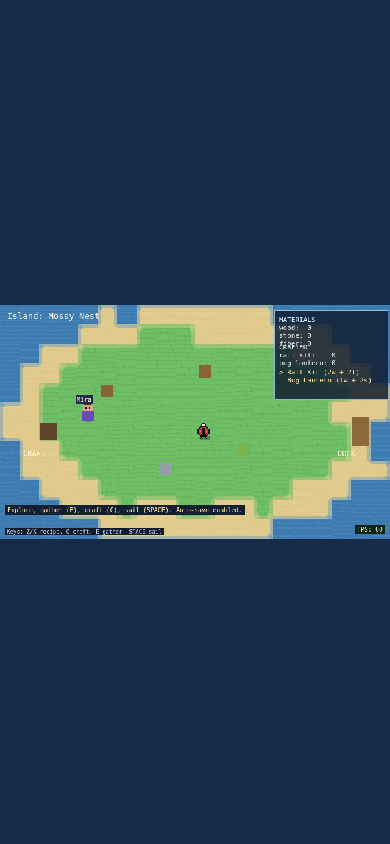
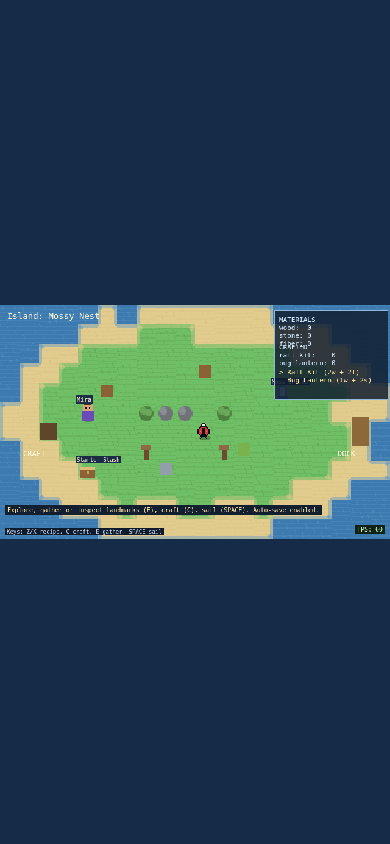
Add island chokepoints and landmark interactables

diff --git a/src/main.ts b/src/main.ts
@@ -3,11 +3,27 @@ import Phaser from 'phaser'
 
 type ResourceType = 'wood' | 'stone' | 'fiber'
 type CraftKey = 'raftKit' | 'bugLantern'
+type ObstacleType = 'rock' | 'bush' | 'stump'
+type LandmarkType = 'chest' | 'shrine' | 'cave'
 
 type ResourceNode = {
   type: ResourceType
   sprite: Phaser.Physics.Arcade.Sprite
   harvested: boolean
+}
+
+type ObstacleDef = {
+  type: ObstacleType
+  tx: number
+  ty: number
+}
+
+type LandmarkDef = {
+  id: string
+  type: LandmarkType
+  tx: number
+  ty: number
+  title: string
 }
 
 type Island = {
@@ -21,6 +37,8 @@ type Island = {
     waterFoam: number
   }
   resources: Array<{ type: ResourceType; tx: number; ty: number }>
+  obstacles: ObstacleDef[]
+  landmarks: LandmarkDef[]
 }
 
 type Recipe = {
@@ -41,6 +59,7 @@ type SaveData = {
   crafted: Record<CraftKey, number>
   selectedRecipe: number
   quest: { lanternRequested: boolean; lanternDelivered: boolean }
+  landmarksVisited?: Record<string, boolean>
   cameraZoom?: number
 }
 
@@ -78,12 +97,15 @@ class AdventureScene extends Phaser.Scene {
   private readonly inventory: Record<ResourceType, number> = { wood: 0, stone: 0, fiber: 0 }
   private readonly crafted: Record<CraftKey, number> = { raftKit: 0, bugLantern: 0 }
   private quest = { lanternRequested: false, lanternDelivered: false }
+  private readonly landmarksVisited: Record<string, boolean> = {}
   private readonly saveKey = 'ladybug-adventurer-save-v1'
 
   private dock!: Phaser.GameObjects.Rectangle
   private craftBench!: Phaser.GameObjects.Rectangle
   private npcSprite?: Phaser.Physics.Arcade.Sprite
   private npcLabel?: Phaser.GameObjects.Text
+  private obstacleSprites: Phaser.Physics.Arcade.Sprite[] = []
+  private landmarks: Array<{ def: LandmarkDef; key: string; sprite: Phaser.Physics.Arcade.Sprite; label: Phaser.GameObjects.Text }> = []
 
   private hudPanel!: Phaser.GameObjects.Rectangle
   private islandLabel!: Phaser.GameObjects.Text
@@ -155,6 +177,18 @@ class AdventureScene extends Phaser.Scene {
         { type: 'fiber', tx: 12, ty: 7 },
         { type: 'stone', tx: 8, ty: 8 },
       ],
+      obstacles: [
+        { type: 'bush', tx: 7, ty: 5 },
+        { type: 'rock', tx: 8, ty: 5 },
+        { type: 'rock', tx: 9, ty: 5 },
+        { type: 'bush', tx: 11, ty: 5 },
+        { type: 'stump', tx: 7, ty: 7 },
+        { type: 'stump', tx: 11, ty: 7 },
+      ],
+      landmarks: [
+        { id: 'stash', type: 'chest', tx: 4, ty: 8, title: 'Starter Stash' },
+        { id: 'altar', type: 'shrine', tx: 14, ty: 4, title: 'Moss Shrine' },
+      ],
     },
     {
       name: 'Pebble Ring',
@@ -172,6 +206,18 @@ class AdventureScene extends Phaser.Scene {
         { type: 'wood', tx: 9, ty: 8 },
         { type: 'fiber', tx: 14, ty: 5 },
       ],
+      obstacles: [
+        { type: 'rock', tx: 8, ty: 4 },
+        { type: 'rock', tx: 9, ty: 4 },
+        { type: 'bush', tx: 10, ty: 4 },
+        { type: 'stump', tx: 11, ty: 4 },
+        { type: 'bush', tx: 8, ty: 8 },
+        { type: 'rock', tx: 12, ty: 8 },
+      ],
+      landmarks: [
+        { id: 'echo-cave', type: 'cave', tx: 5, ty: 6, title: 'Echo Cave' },
+        { id: 'ring-shrine', type: 'shrine', tx: 15, ty: 7, title: 'Ring Shrine' },
+      ],
     },
     {
       name: 'Sunset Atoll',
@@ -188,6 +234,18 @@ class AdventureScene extends Phaser.Scene {
         { type: 'fiber', tx: 13, ty: 6 },
         { type: 'wood', tx: 10, ty: 4 },
         { type: 'stone', tx: 10, ty: 8 },
+      ],
+      obstacles: [
+        { type: 'stump', tx: 7, ty: 4 },
+        { type: 'bush', tx: 8, ty: 4 },
+        { type: 'rock', tx: 12, ty: 4 },
+        { type: 'stump', tx: 13, ty: 4 },
+        { type: 'rock', tx: 9, ty: 8 },
+        { type: 'bush', tx: 11, ty: 8 },
+      ],
+      landmarks: [
+        { id: 'sun-cache', type: 'chest', tx: 15, ty: 4, title: 'Sun Cache' },
+        { id: 'reef-cave', type: 'cave', tx: 5, ty: 8, title: 'Reef Cave' },
       ],
     },
   ]
@@ -234,7 +292,7 @@ class AdventureScene extends Phaser.Scene {
       window.addEventListener('beforeunload', () => this.saveNow())
     }
 
-    this.setStatus('Explore, gather (E), craft (C), sail (SPACE). Auto-save enabled.')
+    this.setStatus('Explore, gather or inspect landmarks (E), craft (C), sail (SPACE). Auto-save enabled.')
   }
 
   update() {
@@ -299,6 +357,55 @@ class AdventureScene extends Phaser.Scene {
     g.fillRect(4, 5, 1, 1)
     g.fillRect(7, 5, 1, 1)
     g.generateTexture('npc', 12, 16)
+
+    g.clear()
+    g.fillStyle(0x6f7378)
+    g.fillCircle(8, 9, 6)
+    g.fillStyle(0x8a8f95)
+    g.fillCircle(6, 7, 3)
+    g.generateTexture('obstacle-rock', 16, 16)
+
+    g.clear()
+    g.fillStyle(0x4d7f3f)
+    g.fillCircle(8, 9, 6)
+    g.fillStyle(0x6ba85a)
+    g.fillCircle(6, 7, 3)
+    g.fillCircle(10, 8, 3)
+    g.generateTexture('obstacle-bush', 16, 16)
+
+    g.clear()
+    g.fillStyle(0x6d4c2e)
+    g.fillRect(6, 5, 4, 10)
+    g.fillStyle(0x8e6944)
+    g.fillRect(4, 3, 8, 4)
+    g.generateTexture('obstacle-stump', 16, 16)
+
+    g.clear()
+    g.fillStyle(0x8b6235)
+    g.fillRect(2, 5, 12, 9)
+    g.fillStyle(0xdbbd79)
+    g.fillRect(2, 5, 12, 2)
+    g.fillStyle(0xc8a24e)
+    g.fillRect(7, 8, 2, 3)
+    g.generateTexture('landmark-chest', 16, 16)
+
+    g.clear()
+    g.fillStyle(0x6686c8)
+    g.fillRect(5, 2, 6, 12)
+    g.fillStyle(0xaed0ff)
+    g.fillRect(6, 3, 4, 8)
+    g.fillStyle(0x4f6da9)
+    g.fillRect(4, 11, 8, 3)
+    g.generateTexture('landmark-shrine', 16, 16)
+
+    g.clear()
+    g.fillStyle(0x2f3d4f)
+    g.fillCircle(8, 8, 7)
+    g.fillStyle(0x111111)
+    g.fillCircle(8, 9, 4)
+    g.fillStyle(0x5b6f85)
+    g.fillRect(2, 11, 12, 3)
+    g.generateTexture('landmark-cave', 16, 16)
 
     const drawLadybug = (key: string, lines: string[]) => {
       const colors: Record<string, number> = {
@@ -753,6 +860,22 @@ class AdventureScene extends Phaser.Scene {
     this.resetTouchMove()
   }
 
+  private obstacleTexture(type: ObstacleType) {
+    if (type === 'rock') return 'obstacle-rock'
+    if (type === 'bush') return 'obstacle-bush'
+    return 'obstacle-stump'
+  }
+
+  private landmarkTexture(type: LandmarkType) {
+    if (type === 'chest') return 'landmark-chest'
+    if (type === 'shrine') return 'landmark-shrine'
+    return 'landmark-cave'
+  }
+
+  private landmarkKey(islandIndex: number, id: string) {
+    return `${islandIndex}:${id}`
+  }
+
   private loadIsland(index: number) {
     this.islandIndex = index
     this.clearMapTiles()
@@ -766,6 +889,15 @@ class AdventureScene extends Phaser.Scene {
 
     for (const node of this.nodes) node.sprite.destroy()
     this.nodes = []
+
+    this.obstacleSprites.forEach((sprite) => sprite.destroy())
+    this.obstacleSprites = []
+
+    this.landmarks.forEach((landmark) => {
+      landmark.sprite.destroy()
+      landmark.label.destroy()
+    })
+    this.landmarks = []
 
     this.npcSprite?.destroy()
     this.npcLabel?.destroy()
@@ -792,6 +924,44 @@ class AdventureScene extends Phaser.Scene {
         repeat: -1,
         ease: 'Sine.easeInOut',
       })
+    }
+
+    for (const obstacle of island.obstacles) {
+      const ox = obstacle.tx * TILE + HALF_TILE
+      const oy = WORLD_OFFSET_Y + obstacle.ty * TILE + HALF_TILE
+      const sprite = this.trackWorld(this.physics.add.sprite(ox, oy, this.obstacleTexture(obstacle.type)).setDepth(25))
+      sprite.setScale(2)
+      sprite.setImmovable(true)
+      sprite.body?.setAllowGravity(false)
+      this.obstacleSprites.push(sprite)
+      this.solidColliders.push(this.physics.add.collider(this.player, sprite))
+    }
+
+    for (const landmarkDef of island.landmarks) {
+      const lx = landmarkDef.tx * TILE + HALF_TILE
+      const ly = WORLD_OFFSET_Y + landmarkDef.ty * TILE + HALF_TILE
+      const key = this.landmarkKey(index, landmarkDef.id)
+
+      const sprite = this.trackWorld(this.physics.add.sprite(lx, ly, this.landmarkTexture(landmarkDef.type)).setDepth(28))
+      sprite.setScale(2)
+      sprite.setImmovable(true)
+      sprite.body?.setAllowGravity(false)
+
+      if (this.landmarksVisited[key]) {
+        sprite.setTint(0xb8b8b8)
+        sprite.setAlpha(0.85)
+      }
+
+      const label = this.trackWorld(this.add.text(lx - 20, ly - 24, landmarkDef.title, {
+        fontFamily: 'monospace',
+        fontSize: '9px',
+        color: '#fff5d6',
+        backgroundColor: '#1b2d44',
+        padding: { left: 2, right: 2, top: 1, bottom: 1 },
+      }).setDepth(29))
+
+      this.landmarks.push({ def: landmarkDef, key, sprite, label })
+      this.solidColliders.push(this.physics.add.collider(this.player, sprite))
     }
 
     const npc = this.npcByIsland[index]
@@ -991,7 +1161,40 @@ class AdventureScene extends Phaser.Scene {
 
   private handleInteract() {
     if (this.tryNpcInteraction()) return
+    if (this.tryLandmarkInteraction()) return
     this.harvestNearbyNode()
+  }
+
+  private tryLandmarkInteraction() {
+    const nearby = this.landmarks.find((l) => Phaser.Math.Distance.Between(this.player.x, this.player.y, l.sprite.x, l.sprite.y) < 36)
+    if (!nearby) return false
+
+    if (this.landmarksVisited[nearby.key]) {
+      if (nearby.def.type === 'chest') this.setStatus(`${nearby.def.title} is empty.`)
+      if (nearby.def.type === 'shrine') this.setStatus(`${nearby.def.title} hums softly.`)
+      if (nearby.def.type === 'cave') this.setStatus(`${nearby.def.title} echoes with distant waves.`)
+      return true
+    }
+
+    this.landmarksVisited[nearby.key] = true
+    nearby.sprite.setTint(0xb8b8b8)
+    nearby.sprite.setAlpha(0.85)
+
+    if (nearby.def.type === 'chest') {
+      this.inventory.wood += 1
+      this.inventory.stone += 1
+      this.setStatus(`${nearby.def.title}: found supplies (+1 wood, +1 stone).`)
+    } else if (nearby.def.type === 'shrine') {
+      this.inventory.fiber += 2
+      this.setStatus(`${nearby.def.title}: blessing granted (+2 fiber).`)
+    } else {
+      this.inventory.stone += 2
+      this.setStatus(`${nearby.def.title}: mined glowing ore (+2 stone).`)
+    }
+
+    this.updateHud()
+    this.saveNow()
+    return true
   }
 
   private tryNpcInteraction() {
@@ -1137,6 +1340,7 @@ class AdventureScene extends Phaser.Scene {
         crafted: { ...this.crafted },
         selectedRecipe: this.selectedRecipe,
         quest: { ...this.quest },
+        landmarksVisited: Object.keys(this.landmarksVisited).length,
         cameraZoom: this.cameras.main.zoom,
         fps: Math.round(this.game.loop.actualFps),
       }),
@@ -1172,6 +1376,12 @@ class AdventureScene extends Phaser.Scene {
         this.quest.lanternDelivered = Boolean(parsed.quest.lanternDelivered)
       }
 
+      if (parsed.landmarksVisited && typeof parsed.landmarksVisited === 'object') {
+        Object.entries(parsed.landmarksVisited).forEach(([k, v]) => {
+          this.landmarksVisited[k] = Boolean(v)
+        })
+      }
+
       if (typeof parsed.cameraZoom === 'number') {
         this.cameras.main.setZoom(Phaser.Math.Clamp(parsed.cameraZoom, 0.75, 2.25))
       }
@@ -1189,6 +1399,7 @@ class AdventureScene extends Phaser.Scene {
       crafted: { ...this.crafted },
       selectedRecipe: this.selectedRecipe,
       quest: { ...this.quest },
+      landmarksVisited: { ...this.landmarksVisited },
       cameraZoom: this.cameras.main.zoom,
     }
 
